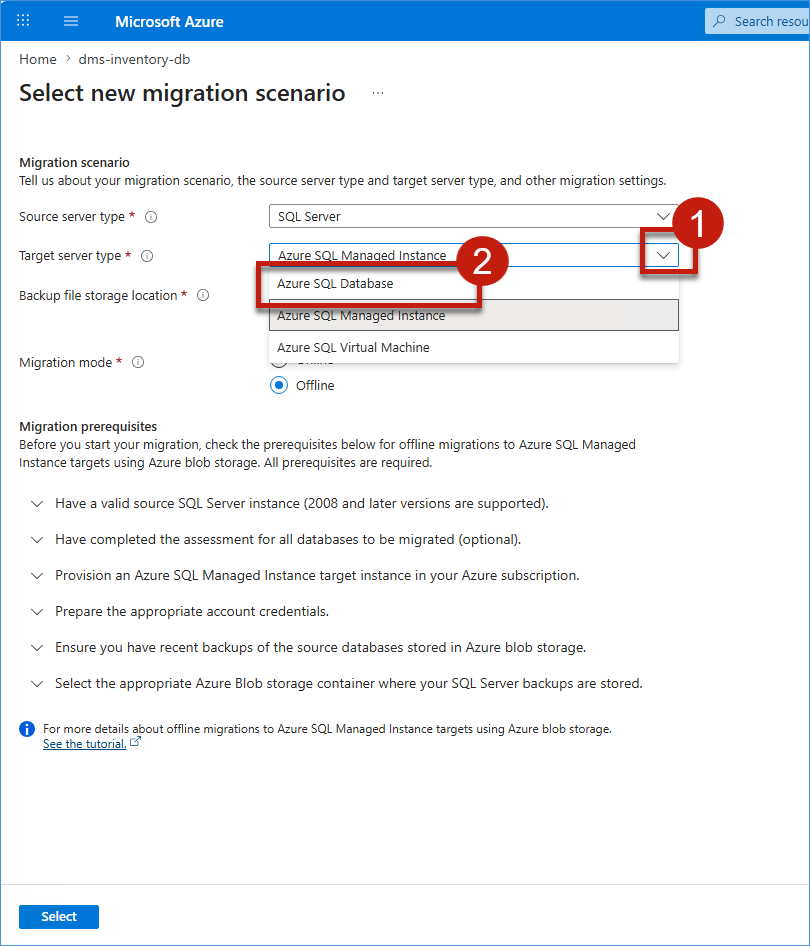
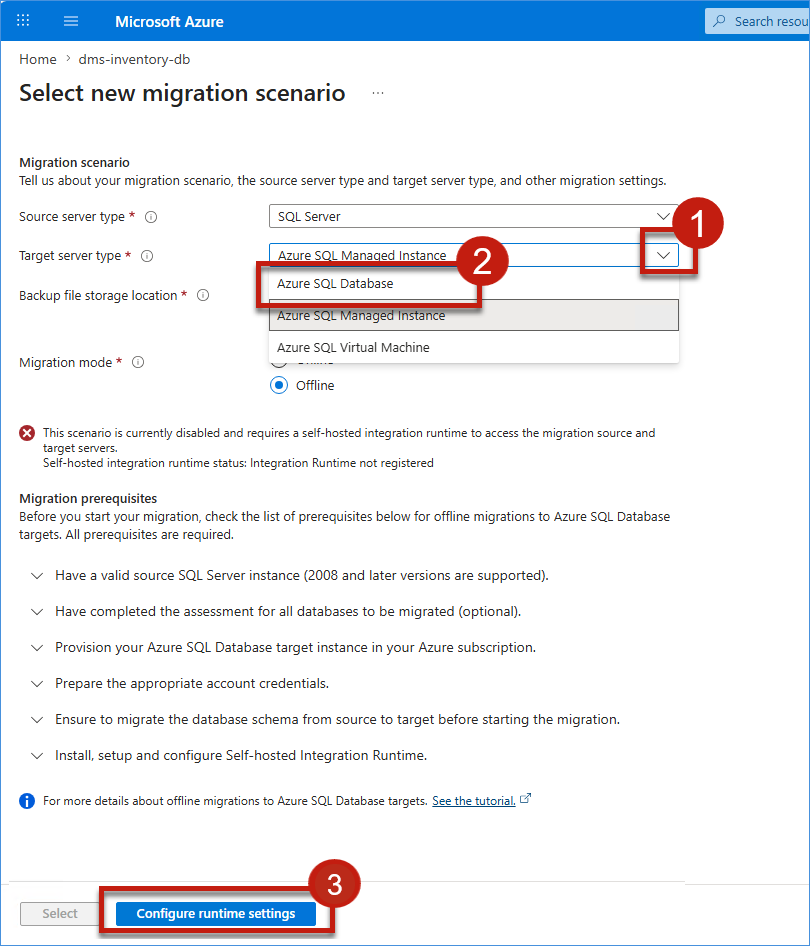
resolved all the 1st Cloud-lab testing comments

Changed region(s): [[0.0, 0.6438, 0.8025, 0.8584], [0.0, 0.4292, 0.8333, 0.6131], [0.0, 0.889, 0.463, 1.0]]

diff --git a/Lab/Lab on SQL-Migration/Exercise 4 - Validate the Migrated Azure SQL Database/Exercise 4 - Validate the Migrated Azure SQL Database.md b/Lab/Lab on SQL-Migration/Exercise 4 - Validate the Migrated Azure SQL Database/Exercise 4 - Validate the Migrated Azure SQL Database.md
@@ -28,11 +28,11 @@ In this exercise, you will connect to the migrated Azure SQL Database-Hyperscale
 
 ### Task 4.2: Verify Migrated Database Objects
 
-1. In the **Query editor Explorer**, expand the **dbo** schema and verify that the **Tables** folder contains all 15 migrated tables: **__migration_status**, **carriers**, **customers** etc.
+3. In the **Query editor Explorer**, expand the **dbo** schema and verify that the **Tables** folder contains all 15 migrated tables: **__migration_status**, **carriers**, **customers** etc.
 
 	![Step 3.png](../../media/image51.png)
 
-2. Continue scrolling in the Explorer to verify the remaining database objects: **Views** , **Stored Procedures**, **Scalar Functions** , and **Table-Valued Functions**.
+4. Continue scrolling in the Explorer to verify the remaining database objects: **Views** , **Stored Procedures**, **Scalar Functions** , and **Table-Valued Functions**.
 
 	![Step 4.png](../../media/image52.png)
 
@@ -41,11 +41,11 @@ In this exercise, you will connect to the migrated Azure SQL Database-Hyperscale
 
 
 
-1. In the Explorer, right-click on the **customers** table and select **Select top 1000 rows** from the context menu.
+5. In the Explorer, right-click on the **customers** table and select **Select top 1000 rows** from the context menu.
 
 	![Step 5.png](../../media/image53.png)
 
-2. The query `SELECT TOP (1000) * FROM [dbo].[customers]` will be auto-populated in the editor. Click **Run** and verify that the results display customer data in the **Results** tab, confirming the data has been successfully migrated (50 rows returned).
+6. The query `SELECT TOP (1000) * FROM [dbo].[customers]` will be auto-populated in the editor. Click **Run** and verify that the results display customer data in the **Results** tab, confirming the data has been successfully migrated (50 rows returned).
 
 	![Step 6.png](../../media/image54.png)
 
@@ -80,28 +80,30 @@ In this exercise, you will connect to the migrated Azure SQL Database-Hyperscale
 
 	![Step 12.png](../../media/image70.png)
 
+8. A pop-up screen will be shown. Click on the **Use AI Features** button.
 
-8. A popup will be shown. Click on the **Continue with GitHub** button to proceed with authentication.
+	![Step 8.png](../../media/image84.png)
 
-	![Step 12.png](../../media/image71.png)
+9. A popup will be shown. Click on the **Continue with GitHub** button to proceed with authentication.
 
-9. Sign in with your **GitHub account** and **password** to authenticate VS Code with GitHub Copilot.
+	![Step 9.png](../../media/image71.png)
 
-10. A popup to approve VS Code link with GitHub will appear. Click on the **Continue** button to complete the authentication process.
+10. Sign in with your **GitHub account** and **password** to authenticate VS Code with GitHub Copilot.
 
-	![Step 12.png](../../media/image72.png)
+11. A popup to approve VS Code link with GitHub will appear. Click on the **Continue** button to complete the authentication process.
 
-11. A new popup will appear. Click on the **Authorize Visual-Studio-Code** button to authorize the connection.
+	![Step 11.png](../../media/image72.png)
+
+12. A new popup will appear. Click on the **Authorize Visual-Studio-Code** button to authorize the connection.
 
     ![Step 12.png](../../media/image73.png)
 
-12. VS Code will automatically come back to the screen. Before pasting the prompt, **update the Target Database details** in the prompt below with your actual Azure SQL server name and database name from envirnment. Then paste the updated prompt in the **Copilot chat** right panel and press **Enter**.
+13. VS Code will automatically come back to the screen. Before pasting the prompt, **update the Target Database details** in the prompt below with your actual Azure SQL server name and database name from envirnment. Then paste the updated prompt in the **Copilot chat** right panel and press **Enter**.
 
     > **Note:** Replace the following values with your actual Azure SQL Database details:
     > - **Server:** Update `sqlserver-inventory.database.windows.net` with your Azure SQL server name (e.g., `sql-rgworkiqlab-f1-06151713336.database.windows.net`)
     > - **Database:** Update `Retail_DB-Hyperscale` with your Azure SQL database name (e.g., `sqldb-rgworkiqlab-f1-06151713336`)
-    
-    **Prompt**
+
     ```text
     # Role
     You are an expert Database Migration Validation Engineer specializing in post-migration validation for enterprise SQL Server to Azure SQL Database migrations.
@@ -259,15 +261,19 @@ In this exercise, you will connect to the migrated Azure SQL Database-Hyperscale
     **Begin validation and generate the complete `Comparison_Report.md` file now.**
     ```
 
-    ![Step 12.png](../../media/image74.png)
+    ![Step 13.png](../../media/image74.png)
 
-13. GitHub Copilot will automatically generate a **Comparison report** of both the on-premises and Azure SQL Database.
+14. GitHub Copilot will ask for permission to perform subsequent actions. Click on the **Allow in the Session** button to allow Copilot to execute the necessary SQL queries and generate the comparison report.
 
-    ![Step 12.png](../../media/image75.png)
+    ![Step 14.png](../../media/image85.png)
 
-14. Click the **Preview** button to preview the generated report **.md** file.
+15. GitHub Copilot will automatically generate a **Comparison report** of both the on-premises and Azure SQL Database.
 
-	![Step 12.png](../../media/image76.png)
+    ![Step 15.png](../../media/image75.png)
+
+16. Click the **Preview** button to preview the generated report **.md** file.
+
+	![Step 16.png](../../media/image76.png)
 
 ## What We Learned
 

diff --git a/Lab/Lab on SQL-Migration/Exercise 2 - Configure Azure Database Migration Service/Exercise 2 - Configure Azure Database Migration Service.md b/Lab/Lab on SQL-Migration/Exercise 2 - Configure Azure Database Migration Service/Exercise 2 - Configure Azure Database Migration Service.md
@@ -75,6 +75,9 @@ In this exercise, you will review Azure Database Migration Service, install and 
 
     > **Note:** It may take a few moments for the status to update to "Connected." During this time, it may briefly display "Inactive."
 
+    ![Step 12.png](../../media/image83.png)
+
+
 2. Go back to the Azure Portal. In the **Configure integration runtime** panel on the right, click **Refresh**. The error message indicating "Integration Runtime not registered" will disappear, confirming the Self-Hosted Integration Runtime is successfully configured. Then click **Select** at the bottom of the page.
 
     ![Step 13.png](../../media/image38.png)

diff --git a/Lab/Lab on SQL-Migration/Exercise 1 - Provision the Azure SQL Migration Foundation/Exercise 1 - Provision the Azure SQL Migration Foundation.md b/Lab/Lab on SQL-Migration/Exercise 1 - Provision the Azure SQL Migration Foundation/Exercise 1 - Provision the Azure SQL Migration Foundation.md
@@ -92,7 +92,7 @@ In this exercise, you will install and configure SQL Server and SQL Server Manag
 
     ![Step 3.png](../../media/image21.png)
 
-4. In the resource group, click on **sql-rgworkiqlab-f1-06151713336** (Type: SQL server) from the Resources list.
+4. In the resource group, click on **sql-rgworkiqlab-f1-06151713336 (Type: SQL server)** from the Resources list.
 
     ![Step 4.png](../../media/image22.png)
 
